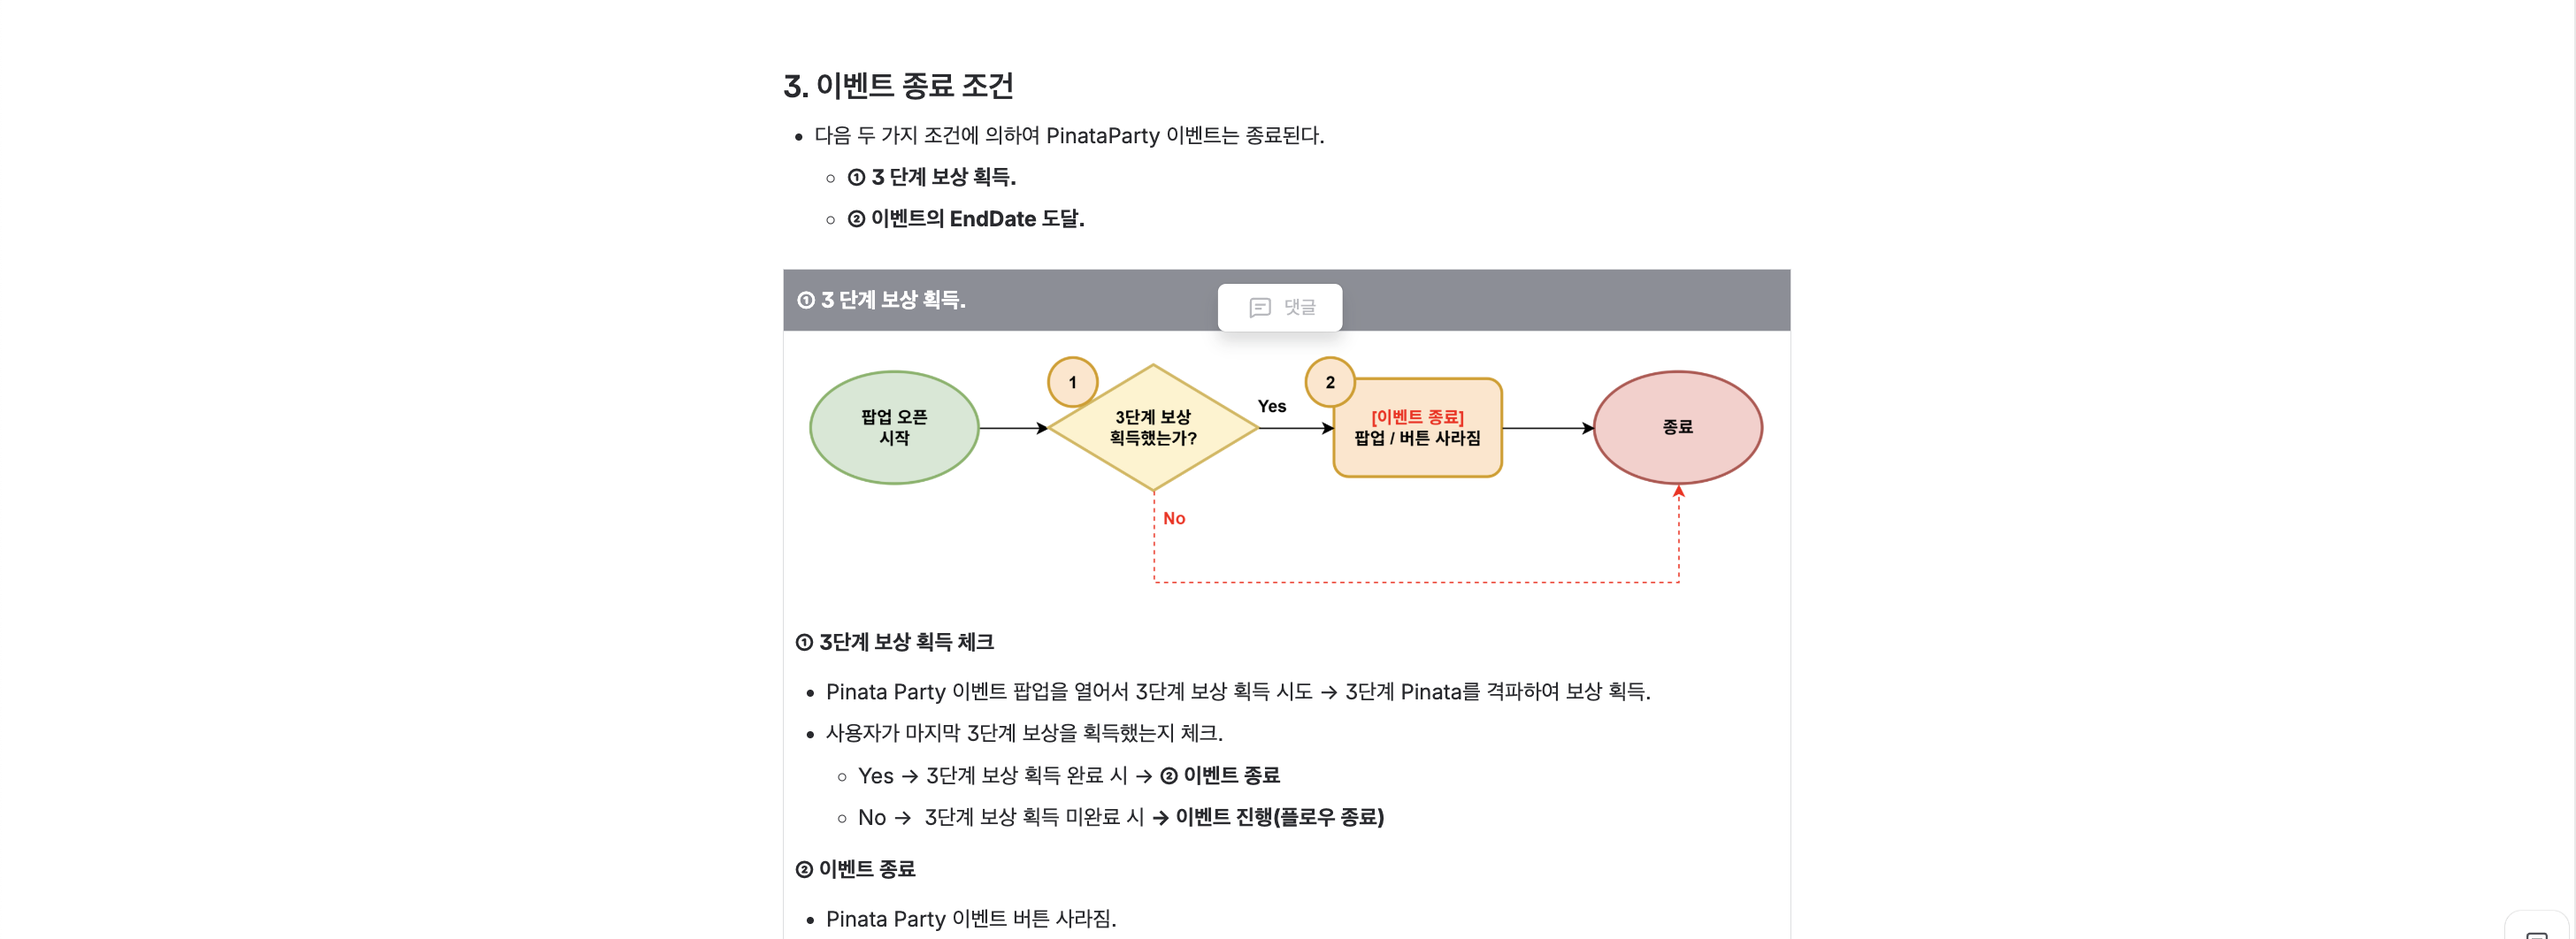
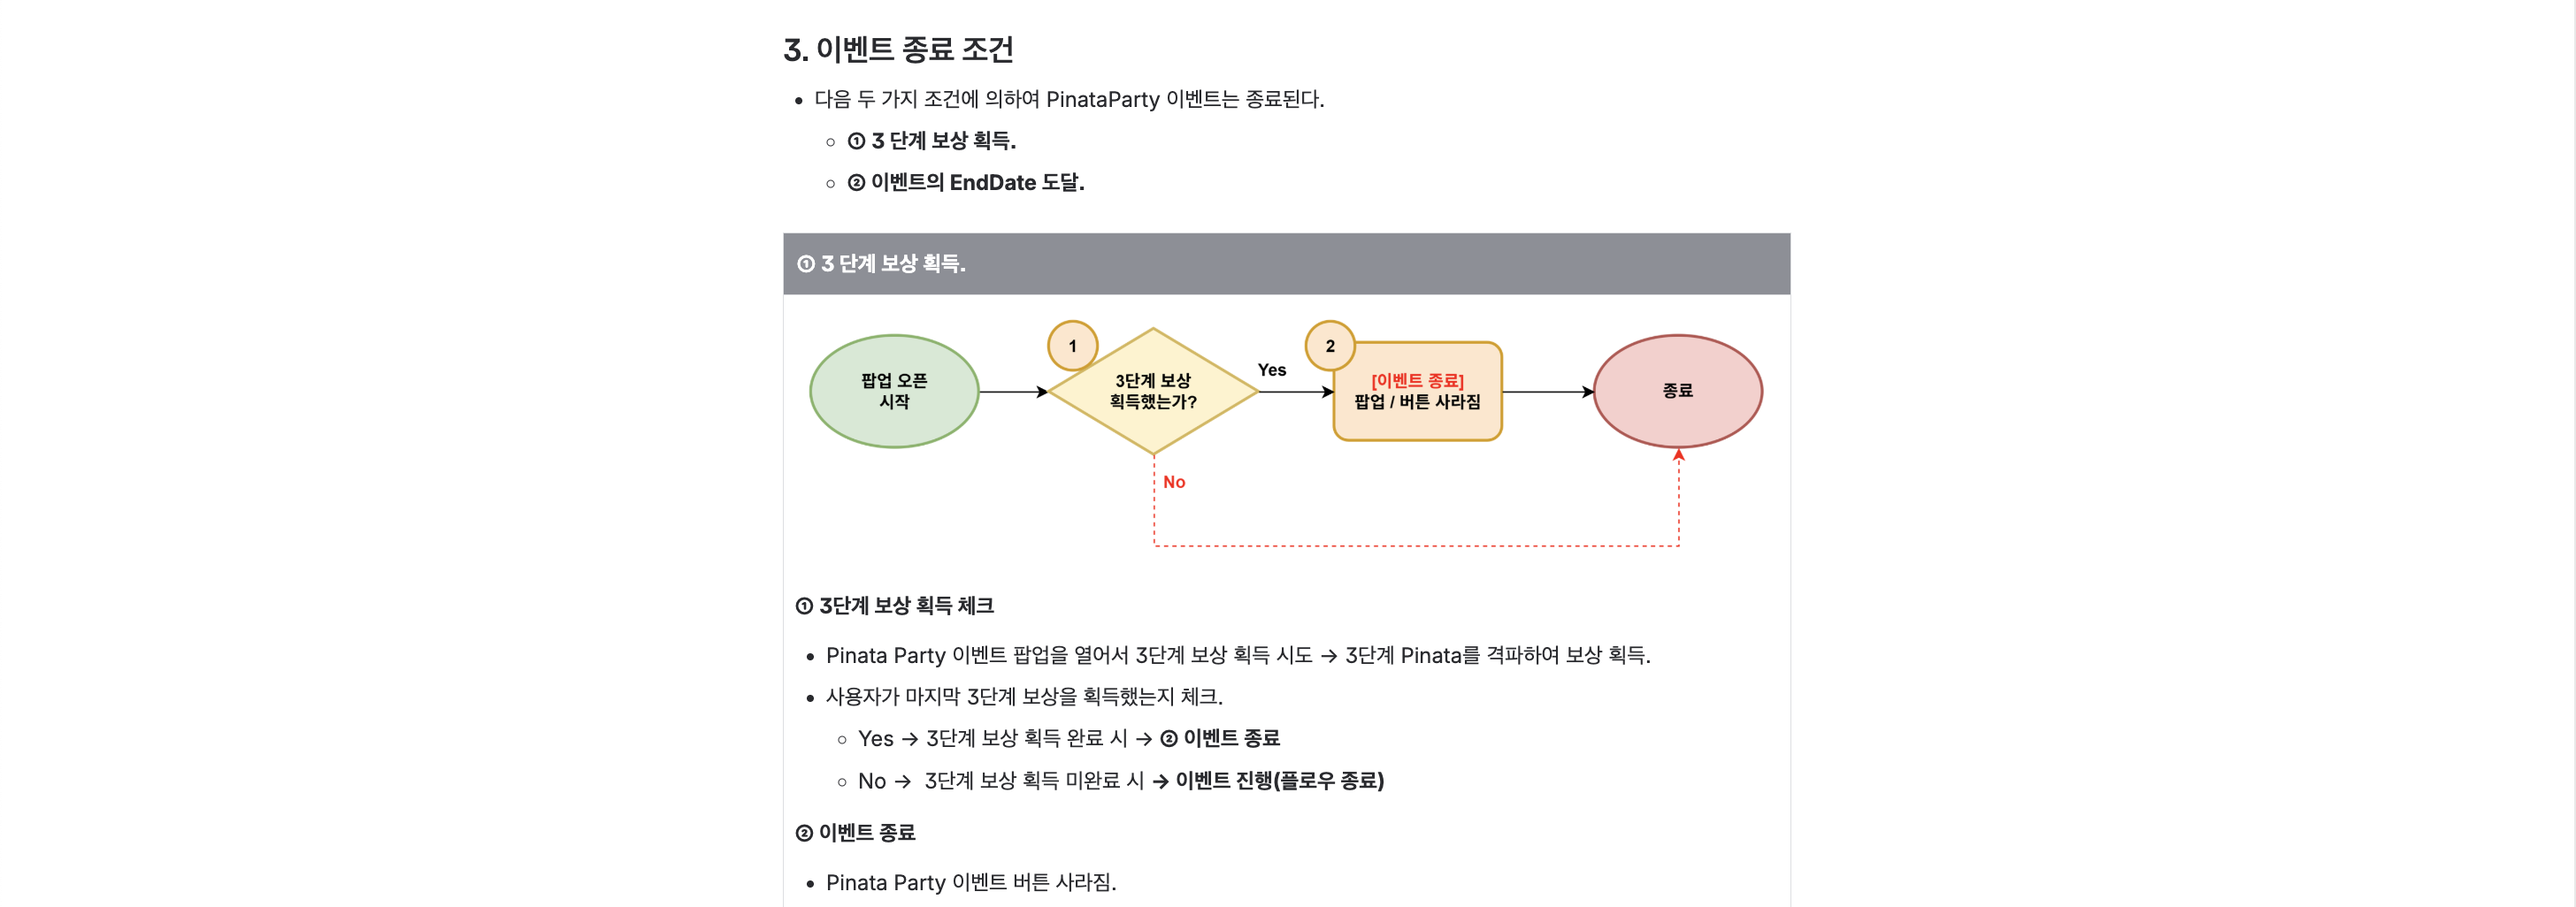
chore(documents): 카테고리 정렬 및 인게임 아이콘/기본 줌 조정

diff --git a/index.html b/index.html
@@ -467,6 +467,14 @@
             <!-- 콘텐츠 / 시스템 기획서 -->
             <h3 class="doc-section-title">콘텐츠 / 시스템 기획서</h3>
             <div class="doc-list">
+                <div class="doc-item" data-doc-id="pinata-party" role="button" tabindex="0">
+                    <span class="doc-icon">📕</span>
+                    <div class="doc-info">
+                        <span class="doc-name">Color Slide Jam - 피냐타 파티 + 리소스 변경(에셋 번들) 시스템</span>
+                        <span class="doc-meta">콘텐츠 / 시스템 기획</span>
+                    </div>
+                    <span class="doc-arrow">›</span>
+                </div>
                 <div class="doc-item" data-doc-id="daily-challenge" role="button" tabindex="0">
                     <span class="doc-icon">📕</span>
                     <div class="doc-info">
@@ -483,21 +491,13 @@
                     </div>
                     <span class="doc-arrow">›</span>
                 </div>
-                <div class="doc-item" data-doc-id="pinata-party" role="button" tabindex="0">
-                    <span class="doc-icon">📕</span>
-                    <div class="doc-info">
-                        <span class="doc-name">Color Slide Jam - 피냐타 파티 + 리소스 변경(에셋 번들) 시스템</span>
-                        <span class="doc-meta">콘텐츠 / 시스템 기획</span>
-                    </div>
-                    <span class="doc-arrow">›</span>
-                </div>
             </div>
 
             <!-- 인게임 기획서 -->
             <h3 class="doc-section-title">인게임 기획서</h3>
             <div class="doc-list">
                 <div class="doc-item" data-doc-id="ingame-flow" role="button" tabindex="0">
-                    <span class="doc-icon">📕</span>
+                    <span class="doc-icon">📗</span>
                     <div class="doc-info">
                         <span class="doc-name">Color Slide Jam - 인게임 플로우</span>
                         <span class="doc-meta">인게임 기획</span>
@@ -505,7 +505,7 @@
                     <span class="doc-arrow">›</span>
                 </div>
                 <div class="doc-item" data-doc-id="ingame-control" role="button" tabindex="0">
-                    <span class="doc-icon">📕</span>
+                    <span class="doc-icon">📗</span>
                     <div class="doc-info">
                         <span class="doc-name">Color Slide Jam - 블록 조작 / 분쇄</span>
                         <span class="doc-meta">인게임 기획</span>

diff --git a/script.js b/script.js
@@ -110,7 +110,7 @@ const DOC_DATA = {
         folder: 'GameDesignDocs/CSJ-PinataParty',
         prefix: 'pinata_',
         count: 45,
-        defaultZoom: 80
+        defaultZoom: 100
     }
 };
 
